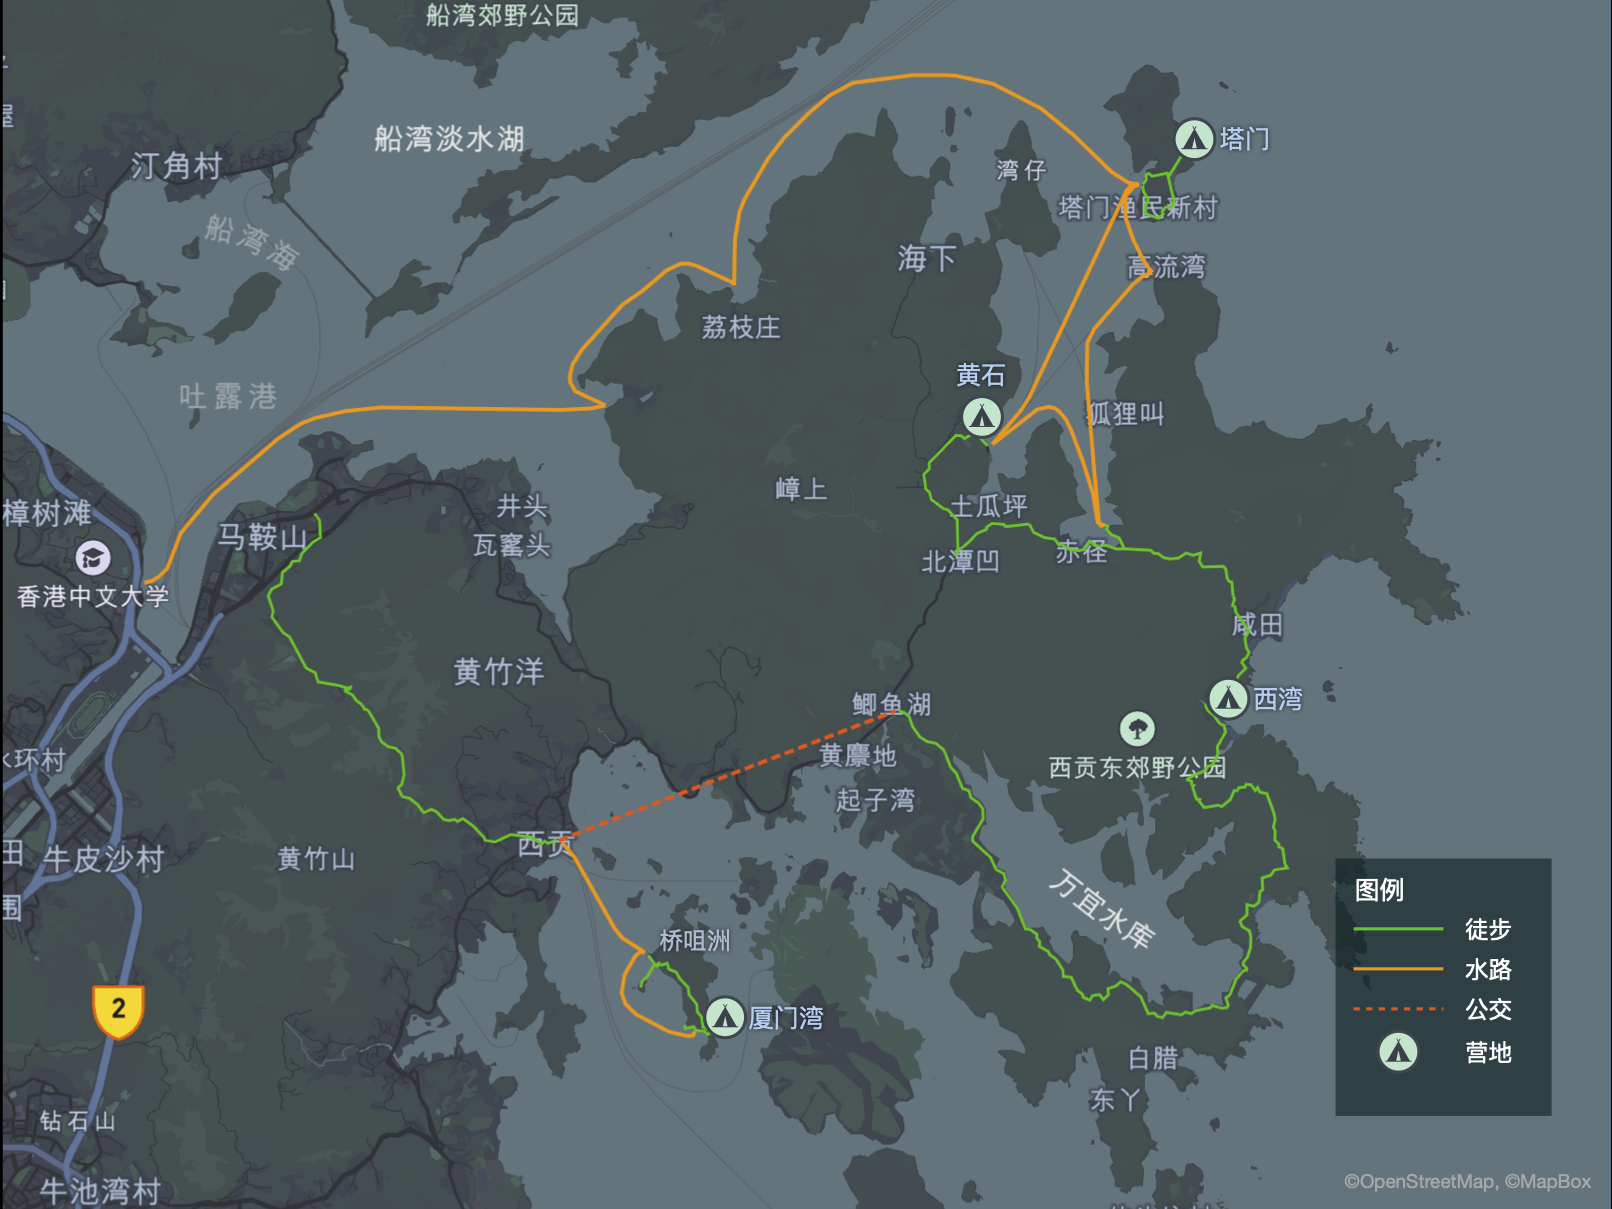
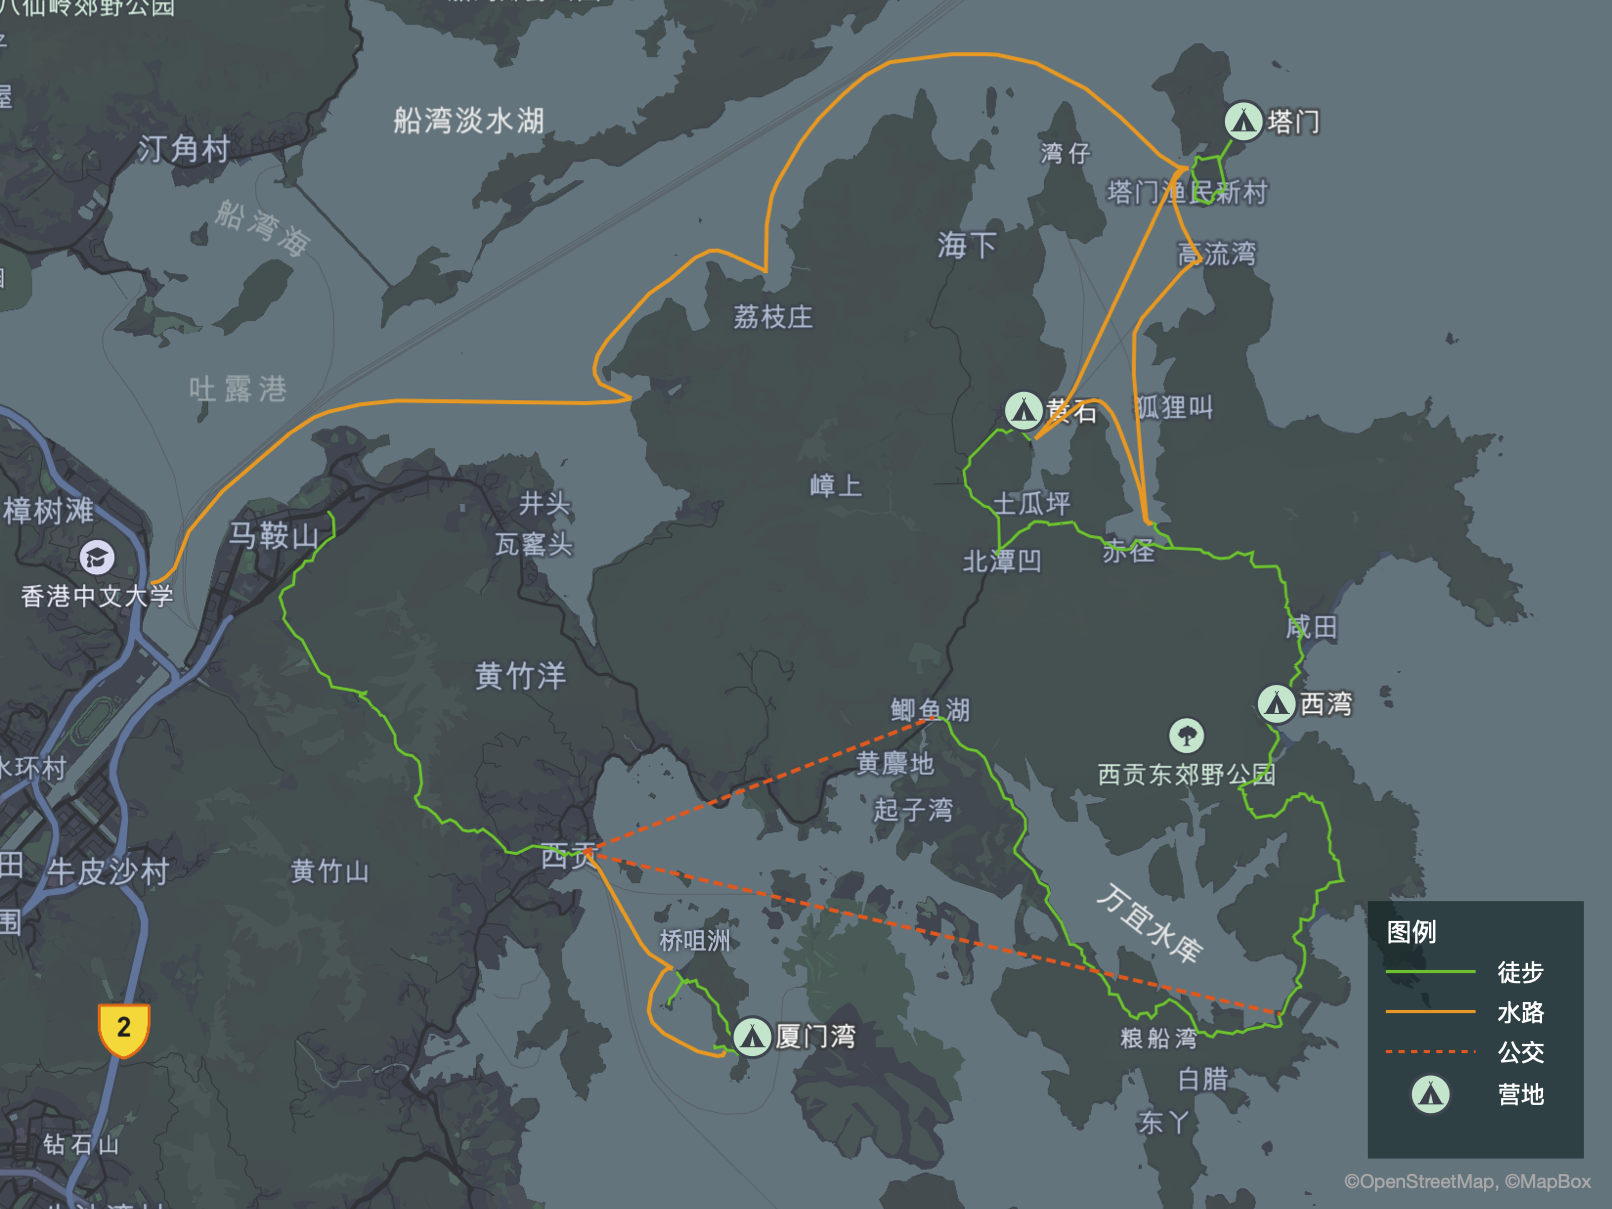
HK hiking (#29)

diff --git a/_posts/2023-04-22-hk-hiking-2023-05.md b/_posts/2023-04-22-hk-hiking-2023-05.md
@@ -20,10 +20,12 @@ tags: [hiking,hongkong]
 * C. 游玩桥咀洲（岛），在 厦门湾 露营
 * D. 厦门湾码头 ～ 西贡码头
   1. 坐船回去 西贡码头，注意补给。昨天买的票可能还有用。
-* E. 西贡码头 ～ 麦理浩径起点
-* F. 麦理浩径起点 - 塔门码头
-  1. 麦理浩径1-2段，经过M31的时候如果时间已经过17点了，可以就此露营（西湾营地），有商店。明天先徒步到赤径码头，然后坐船去 塔门码头，如果错过10:45班次就先去 黄石码头，黄石码头 再坐船去 塔门码头
-  2. 麦理浩径1-2段，经过M31的时候还不到17点，那么继续走完2段，中间经过M43附近有商店。2段终点往北走半小时，到达黄石营地，这里露营。明天 黄石码头 坐船 去 塔门码头
+* E. 西贡码头 - 万宜水库东坝
+  1. 可以先乘车 约30分钟 到 麦理浩径 起点，然后走 麦理浩径1段 到 万宜水库东坝，需要3小时
+  2. 或者直接乘车去万宜水库东坝，需要1小时
+* F. 万宜水库东坝 - 塔门码头
+  1. 麦理浩径2段，经过M31的时候如果时间已经过17点了，可以就此露营（西湾营地），有商店。明天先徒步到赤径码头，需要1.5小时，然后坐船去 塔门码头，如果错过10:45班次就先去 黄石码头，黄石码头 再坐船去 塔门码头
+  2. 麦理浩径2段，经过M31的时候还不到17点，那么继续走完2段，中间经过M43附近有商店。2段终点往北走半小时，到达黄石营地，这里露营。明天 黄石码头 坐船 去 塔门码头
 * G. 游玩塔门岛
   1. 上岛以后先看看船期表。能游玩的地方比较小，有商店。
 * H. 塔门码头 ～ 马料水码头
@@ -33,8 +35,7 @@ tags: [hiking,hongkong]
 
 # 线路方案
 1. 罗湖 - （地铁+公交约50分钟）耀安邨耀遜樓 - （步行约30分钟）马鞍山烧烤场 - 马鞍山郊游径 （徒步约2小时，有官方营地）- 大水井 - （徒步约30分钟）西贡码头 - （坐船15分钟）- 桥咀码头 （营地有厕所）- 桥咀洲地质步道（需注意潮汐）- 桥头岛，折返 - 厦门湾 泳场（营地有厕所） - Ocean pool - 厦门湾码头 -（坐船15分钟）- 西贡码头 - 乘车（不到半小时）前往麦理浩径起点（有怡庭营地）- 麦理浩径1-2段 （约8个小时）- （约半小时）黄石营地 - 黄石码头 - 坐船 - 塔门码头 - 塔门岛（可露营无设施） - 塔门码头 - 坐船，这段距离较长 - 马料水码头
-2. 罗湖 - （地铁+公交约1.5小时）西贡码头 - （坐船15分钟）- 桥咀码头 （营地有厕所）- 桥咀洲地质步道（需注意潮汐）- 桥头岛，折返 - 厦门湾 泳场（营地有厕所） - Ocean pool - 厦门湾 露营 - 厦门湾码头 -（坐船15分钟）- 西贡码头 - 乘车（不到半小时）前往麦理浩径起点（有怡庭营地）- 麦理浩径1-2段 （约8个小时）- （约半小时）黄石营地 - 黄石码头 - 坐船约25分钟（小船更快） - 塔门码头 - 塔门岛（可露营无设施） - 塔门码头 - 坐船，这段距离较长 - 马料水码头
-3. 罗湖 - （地铁+公交约1.5小时）西贡码头 - （坐船15分钟）- 桥咀码头 （营地有厕所）- 桥咀洲地质步道（需注意潮汐）- 桥头岛，折返 - 厦门湾 泳场（营地有厕所） - Ocean pool - 厦门湾 露营 - 厦门湾码头 -（坐船15分钟）- 西贡码头 - 乘车（不到半小时）前往麦理浩径起点（有怡庭营地）- 麦理浩径1段 （约3.5个小时）- 2段到M31（约2小时）西湾营地 - 露营 - （约2小时）赤径码头 - 坐船（一天只有2班去塔门码头，10:45，17:05，错过的话可以先去黄石码头） - 塔门码头 - 塔门岛（可露营无设施） - 塔门码头 - 坐船，这段距离较长 - 马料水码头
+2. 罗湖 - （地铁+公交约1.5小时）西贡码头 - （坐船15分钟）- 桥咀码头 （营地有厕所）- 桥咀洲地质步道（需注意潮汐）- 桥头岛，折返 - 厦门湾 泳场（营地有厕所） - Ocean pool - 厦门湾 露营 - 厦门湾码头 -（坐船15分钟）- 西贡码头 - 乘车（1小时）前往 万宜水库东坝 - 麦理浩径2段到M31（约2小时）西湾营地 - 露营 - （约2小时）赤径码头 - 坐船（一天只有2班去塔门码头，10:45，17:05，错过的话可以先去黄石码头） - 塔门码头 - 塔门岛（可露营无设施） - 塔门码头 - 坐船，这段距离较长 - 马料水码头
 
 # 每日行程
 
@@ -43,14 +44,16 @@ tags: [hiking,hongkong]
   按分段 “B. 西贡码头 ～ 桥咀（嘴）码头” 买船票。  
   西贡码头 坐船 去 桥咀码头，估计下午一两点到达桥咀洲，因为这个岛可以露营，所以不用赶。  
   桥咀洲比较有意思的是桥咀码头附近的地质步道和厦门湾附近的Ocean pool （在海边围起来的泳池，不是厦门湾泳场），有时间还可以去象鼻岩看看。  
-  白天泳场可以买零食，还可以游泳。晚上在厦门湾泳场后面的草坪露营（非官方营地，不知道有没有水源，白天泳场有淋浴间），营地还有烧烤场。 
+  白天泳场可以买零食，还可以游泳。晚上在厦门湾泳场后面的草坪露营（非官方营地，不知道有没有水源，白天泳场有淋浴间），营地还有烧烤场。  
 2. day2：厦门湾码头 坐船 去 西贡码头，注意补给。  
-  然后乘公交地铁前往 麦理浩径起点，走 麦理浩径1-2段。  
-  经过M31的时候如果时间已经过17点了，可以就此露营（西湾营地），有商店，切换到方案3；  
-  否则走完第2段，M43附近有商店，第2段终点往北走半小时，到达黄石营地，这里露营。  
+  然后乘公交地铁前往 麦理浩径起点，走 麦理浩径1段 到 万宜水库东坝（方案1）。如果不想走1段，也可直接乘车到 万宜水库东坝（方案2）。  
+  万宜水库东坝 有特殊地质地貌“六边形石柱群”。
+  然后走 麦理浩径2段。
+  经过M31的时候如果时间已经过17点了，可以就此露营（西湾营地），有商店，切换到方案2；  
+  否则走完第2段，M43附近有商店，第2段终点往北走半小时，到达黄石营地，这里露营，回到方案1。  
   这一程有特殊地质地貌。
-3. day3：如果是方案3，先徒步到赤径码头，然后去塔门码头，如果错过班次就先去黄石码头，回到方案2。  
-  如果是方案2，黄石码头 坐船 去 塔门码头。  
+3. day3：如果是方案2，先徒步到赤径码头，然后去塔门码头，如果错过班次就先去黄石码头，回到方案1。  
+  如果是方案1，黄石码头 坐船 去 塔门码头。  
   塔门岛听说比较适合拍照，岛上有商店，可以补给。  
   逛完了可以坐船去 马料水 码头，回家。也可以在岛上露营一晚，第二天回家。
 4. ？
